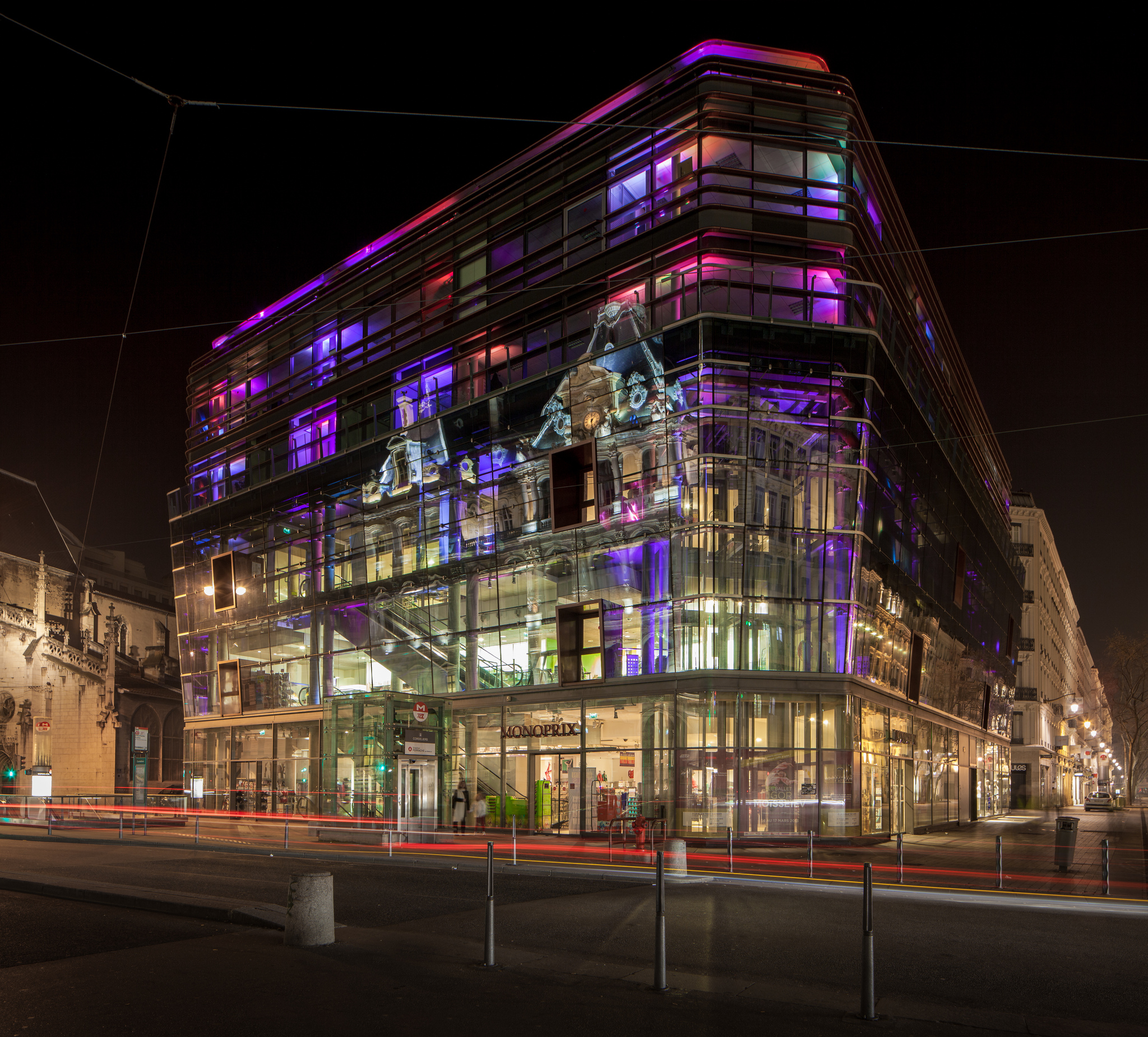
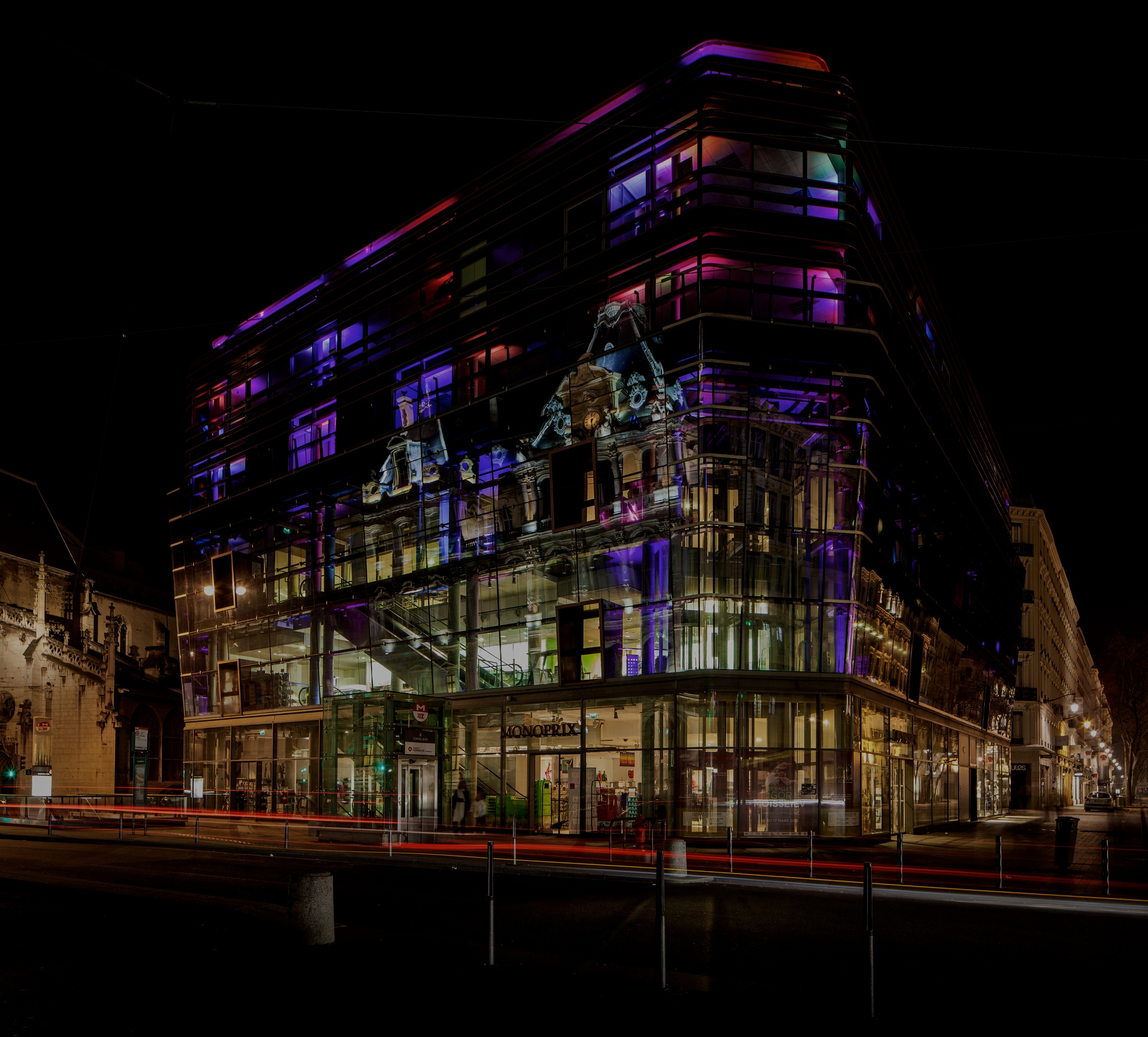
Mise à jour image de fond

diff --git a/index.html b/index.html
@@ -156,7 +156,7 @@
     			<div class="col-md-12">
     				<h2>#LeGrandBazar</h2>
     				<p>500m&sup2; de coworking, 25 startups, en plein centre ville, <span class="highlight">c'est un truc qui te botte ?</span></p>
-    				<a class="btn btn-primary" data-toggle="modal" data-target="#subscribe">Je suis avec vous !</a>
+    				<a class="btn btn-primary" data-toggle="modal" data-target="#subscribe">Oh yeah !</a>
 
     			</div>
     		</div><!-- end of row text -->

diff --git a/js/custom.js b/js/custom.js
@@ -13,7 +13,8 @@ $(document).ready(function() {
 
 <!--Vegas background start -->
 	$.vegas({
-	  src:'image/background.jpg'
+	    src:'image/background.jpg',
+        valign:'top',
 	});
 	
 	$.vegas('overlay', {
